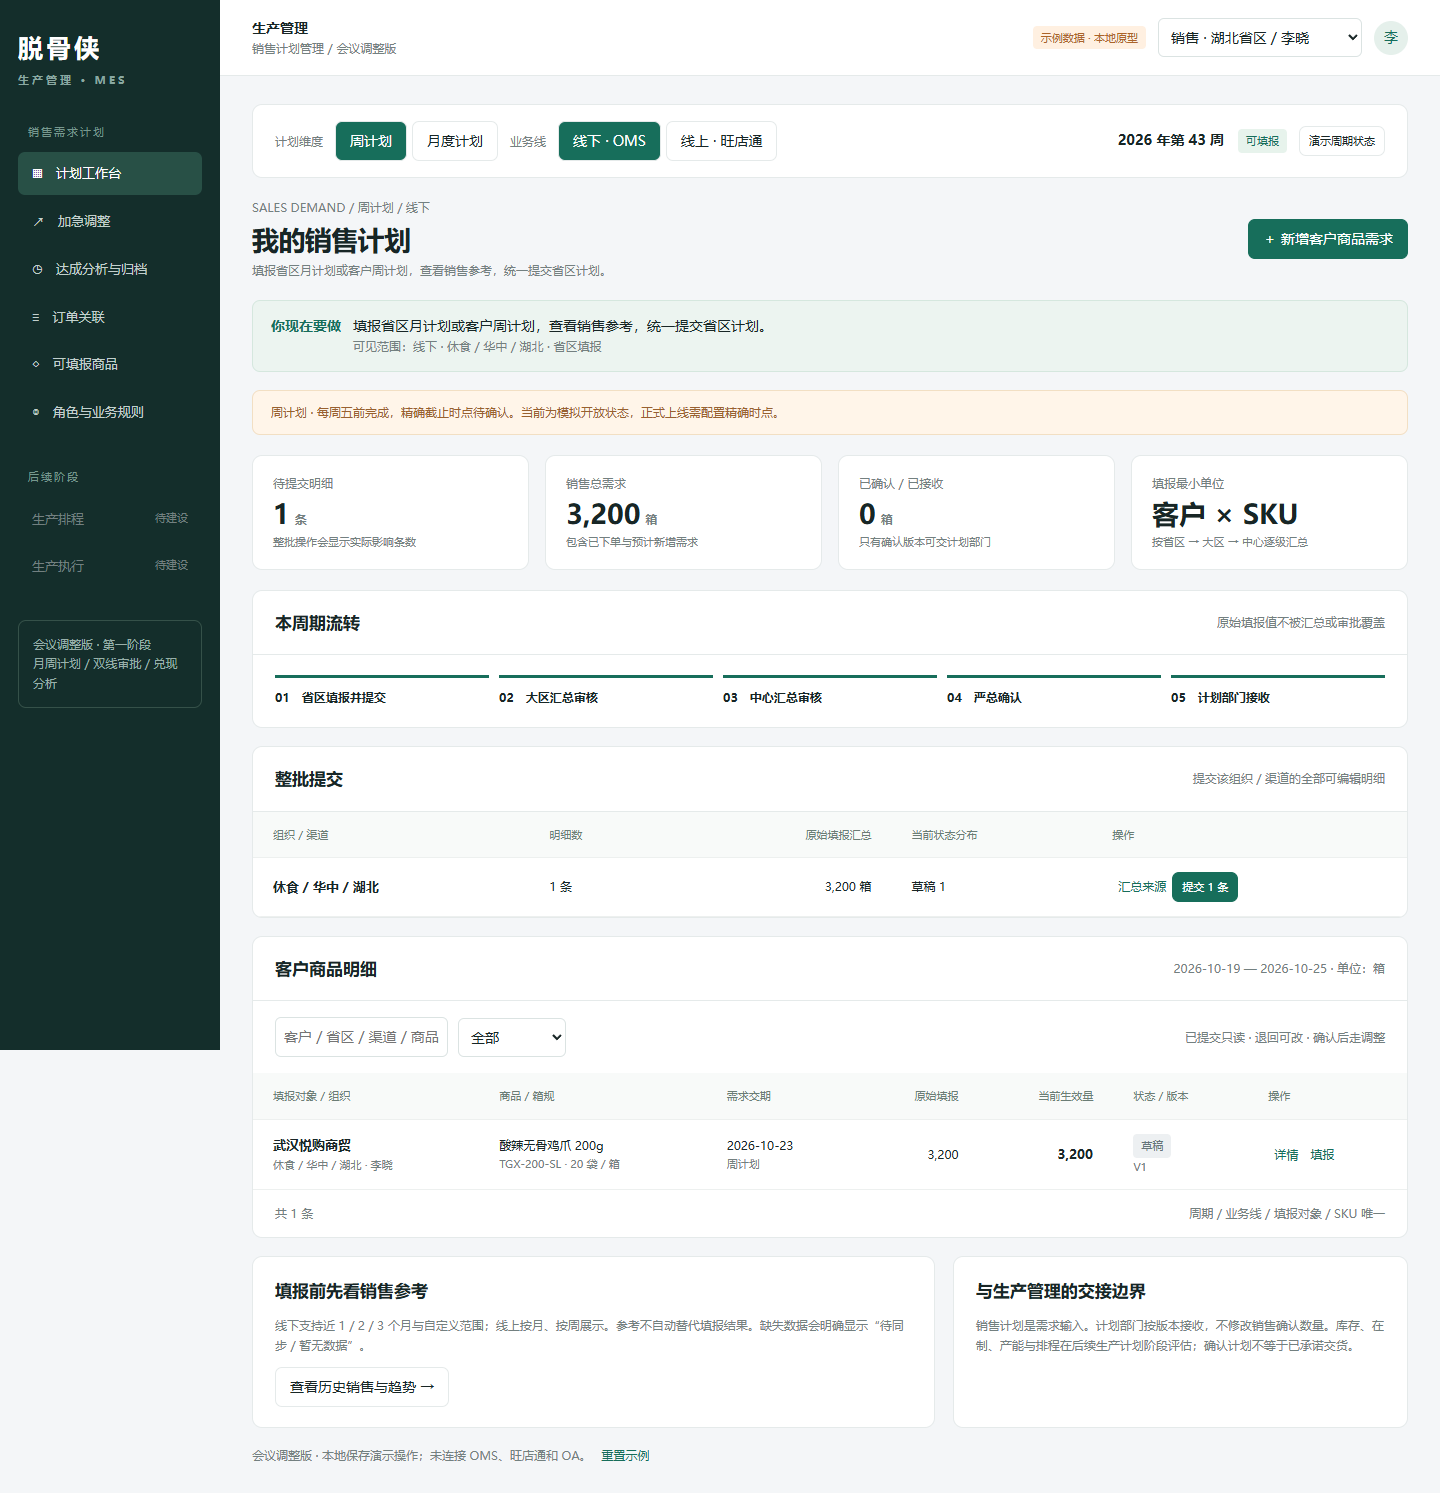
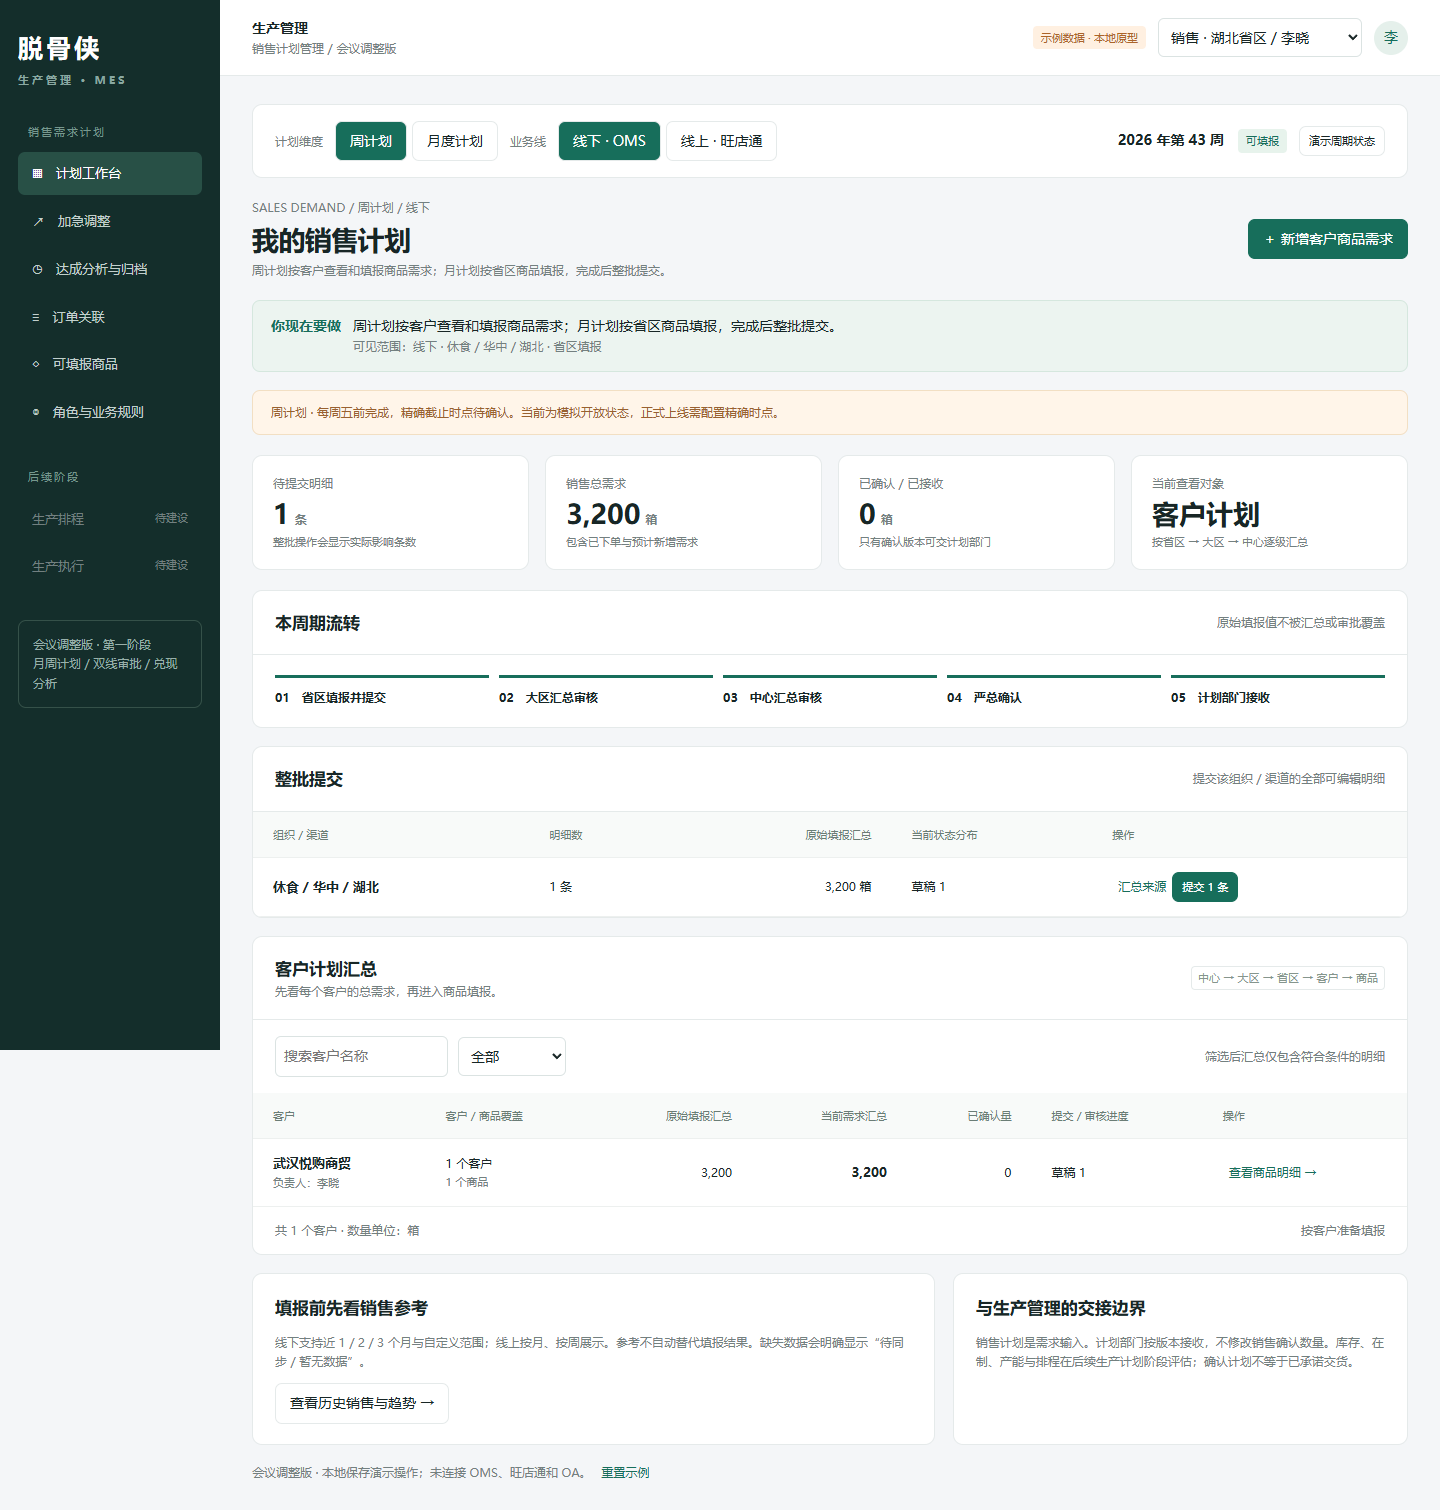
Auto sync 2026-10-14 01:04:22

diff --git a/脱骨侠-销售计划管理-会议调整版.html b/脱骨侠-销售计划管理-会议调整版.html
@@ -60,4 +60,29 @@ for(const action of ['saveForm','doBatch','doReceive','submitAdjustment','review
  if(action==='saveForm')saveForm=wrapped;if(action==='doBatch')doBatch=wrapped;if(action==='doReceive')doReceive=wrapped;if(action==='submitAdjustment')submitAdjustment=wrapped;if(action==='reviewChange')reviewChange=wrapped;if(action==='saveProduct')saveProduct=wrapped;if(action==='doMatch')doMatch=wrapped;
 }
 document.addEventListener('keydown',e=>{if(e.key==='Escape')closeModal()});render();
+
+// Role-based overview: show the next organizational level before customer/SKU detail.
+const hierarchyLevels=['center','region','province','customer'];
+const hierarchyLabels={center:'中心',region:'大区',province:'省区',customer:'客户',channel:'渠道'};
+function overviewLevel(){if(type==='online')return 'channel';return {yan:'center',center:'region',region:'province',sales:period==='week'?'customer':'sku'}[role]||'sku'}
+function nextLevel(level){return hierarchyLevels[hierarchyLevels.indexOf(level)+1]||'sku'}
+function overviewGroups(a,level){return group(a,p=>level==='channel'?p.channel:p[level]||'未维护')}
+function jsAttr(fn,args){return esc(fn+'('+args.map(v=>JSON.stringify(v)).join(',')+')')}
+function overviewTable(a,level,root=false){let groups=overviewGroups(a,level),heading=hierarchyLabels[level];return `<div class="tablewrap"><table><thead><tr><th>${heading}</th><th>客户 / 商品覆盖</th><th class="num">原始填报汇总</th><th class="num">当前需求汇总</th><th class="num">已确认量</th><th>提交 / 审核进度</th><th>操作</th></tr></thead><tbody>${groups.map(([name,ps])=>{let ids=ps.map(p=>p.id),todo=ps.filter(p=>p.status===target()).map(p=>p.id),ready=ps.filter(p=>['已确认','已接收'].includes(p.status)),clientCount=new Set(ps.filter(p=>p.customer).map(p=>p.customer)).size,skuCount=new Set(ps.map(p=>p.sku)).size;return `<tr><td><strong>${esc(name)}</strong><small>${level==='customer'?'负责人：'+esc(ps[0].owner):ps.length+' 条需求来源'}</small></td><td>${period==='month'&&type==='offline'?'月计划不拆客户':clientCount+' 个客户'}<small>${skuCount} 个商品</small></td><td class="num">${fmt(ps.reduce((n,p)=>n+p.versions[0].qty,0))}</td><td class="num"><strong>${fmt(sum(ps))}</strong></td><td class="num">${fmt(sum(ready))}</td><td>${group(ps,p=>p.status).map(([s,x])=>esc(s)+' '+x.length).join('<br>')}</td><td><button class="link" onclick="${jsAttr('openHierarchy',[name,ids,level])}">${level==='customer'||level==='channel'||level==='province'&&period==='month'?'查看商品明细':'查看'+hierarchyLabels[nextLevel(level)]+'汇总'} →</button>${root&&!isSales()&&todo.length?'<br><button class="primary smallbtn" style="margin-top:8px" onclick="'+jsAttr('batchDialog',[todo])+'">'+(role==='yan'||role==='dan'?'确认':'审核')+'本'+heading+' · '+todo.length+' 条</button>':''}</td></tr>`}).join('')||'<tr><td colspan="7" class="empty">当前范围没有'+heading+'计划，调整筛选或切换角色。</td></tr>'}</tbody></table></div><div class="foot"><span>共 ${groups.length} 个${heading} · 数量单位：箱</span><span>${isSales()?'按客户准备填报':'先看直属下级，逐级下钻到需求来源'}</span></div>`}
+function overviewCard(a){let level=overviewLevel();return `<div class="card"><div class="cardhead"><div><h2>${hierarchyLabels[level]}计划汇总</h2><div class="muted">${isSales()?'先看每个客户的总需求，再进入商品填报。':type==='online'?'丹总直接查看各线上渠道的计划。':'你当前查看直属下级：'+hierarchyLabels[level]+'。点开后继续逐级查看。'}</div></div><span class="tag">${type==='online'?'渠道 → 商品':'中心 → 大区 → 省区 → '+(period==='week'?'客户 → 商品':'商品')}</span></div><div class="toolbar"><input aria-label="搜索汇总对象" placeholder="搜索${hierarchyLabels[level]}名称" value="${esc(query)}" oninput="query=this.value;updateOverview()"><select aria-label="汇总状态筛选" onchange="filter=this.value;updateOverview()">${['全部',...stages].map(s=>'<option '+(filter===s?'selected':'')+'>'+s+'</option>').join('')}</select><span class="muted push">筛选后汇总仅包含符合条件的明细</span></div><div id="hierarchyList">${overviewTable(overviewFiltered(a,level),level,true)}</div></div>`}
+function overviewFiltered(a,level){return a.filter(p=>(filter==='全部'||p.status===filter)&&(!query||String(p[level]||'').includes(query)))}
+function updateOverview(){let l=overviewLevel();document.getElementById('hierarchyList').innerHTML=overviewTable(overviewFiltered(visible(),l),l,true)}
+function openHierarchy(name,ids,level){let a=ids.map(get).filter(p=>p&&p.period===period&&p.type===type);if(!a.length)return;let leaf=level==='customer'||level==='channel'||level==='province'&&period==='month',next=nextLevel(level);modal(hierarchyLabels[level]+'计划 · '+name,`<div class="notice"><div><b>${esc(name)} · 当前需求 ${fmt(sum(a))} 箱</b><div class="muted">${cycles[period].label} · ${kind(type)} · ${leaf?'商品明细':'下一级：'+hierarchyLabels[next]+'汇总'} · 仅展示授权范围<br>${period==='month'&&level==='province'?'月计划按省区与商品填报；客户销售可在达成分析中从订单下钻。':'向上汇总不改变客户商品的原始填报值。'}</div></div></div>${leaf?planTable(a):overviewTable(a,next,false)}${leaf?'<details><summary>各级审核汇总快照与意见</summary><div class="muted">'+(a.flatMap(p=>p.logs.filter(l=>l.text.includes('整批')).map(l=>esc(l.at+' · '+l.who+' · '+l.text))).join('<br>')||'暂无审核记录')+'</div></details>':''}`,`<button onclick="closeModal()">${dialogStack.length||document.querySelector('.dialog')?'返回上一级':'返回工作台'}</button>`)}
+const originalWork=work;
+work=function(){let a=visible(),l=overviewLevel(),html=originalWork();if(l==='sku')return html;let isLeader=['region','center','yan','dan'].includes(role);if(isLeader)html=html.replace(batches(a),'');let text=type==='offline'&&period==='month'?'省区商品明细':type==='offline'?'客户商品明细':'渠道商品明细',start=html.indexOf('<div class="card"><div class="cardhead"><h2>'+text),end=html.indexOf('<div class="grid">',start);if(start>=0&&end>start)html=html.slice(0,start)+overviewCard(a)+html.slice(end);html=html.replace('填报最小单位</div><div class="value">'+(type==='offline'?period==='month'?'省区 × SKU':'客户 × SKU':'渠道 × SKU'),(isLeader?'当前查看层级':'当前查看对象')+'</div><div class="value">'+hierarchyLabels[l]+(isLeader?'汇总':'计划'));return html};
+// Sales source links follow the same hierarchy instead of bypassing its levels.
+aggregate=function(name,ids){let l=isSales()?type==='online'?'channel':'province':overviewLevel();openHierarchy(name,ids,l)};
+const originalChangeRole=changeRole;
+changeRole=function(r){originalChangeRole(r);dimension=type==='online'?'渠道':{yan:'中心',center:'大区',region:'省区',sales:period==='week'?'客户':'省区'}[r]||'商品';render()};
+roles.yan.todo='先看各中心汇总，逐级下钻到大区、省区与客户；确认中心计划并审批线下加急。';
+roles.center.todo='先看所辖大区汇总，再查看省区与客户来源；审核大区计划后提交严总。';
+roles.region.todo='先看所辖省区汇总，再查看客户与商品需求；审核省区整批计划后提交中心。';
+roles.sales.todo='周计划按客户查看和填报商品需求；月计划按省区商品填报，完成后整批提交。';
+roles.dan.todo='先看下属线上渠道汇总，再查看商品明细；确认渠道计划并审批线上加急。';
+render();
 </script></body></html>
